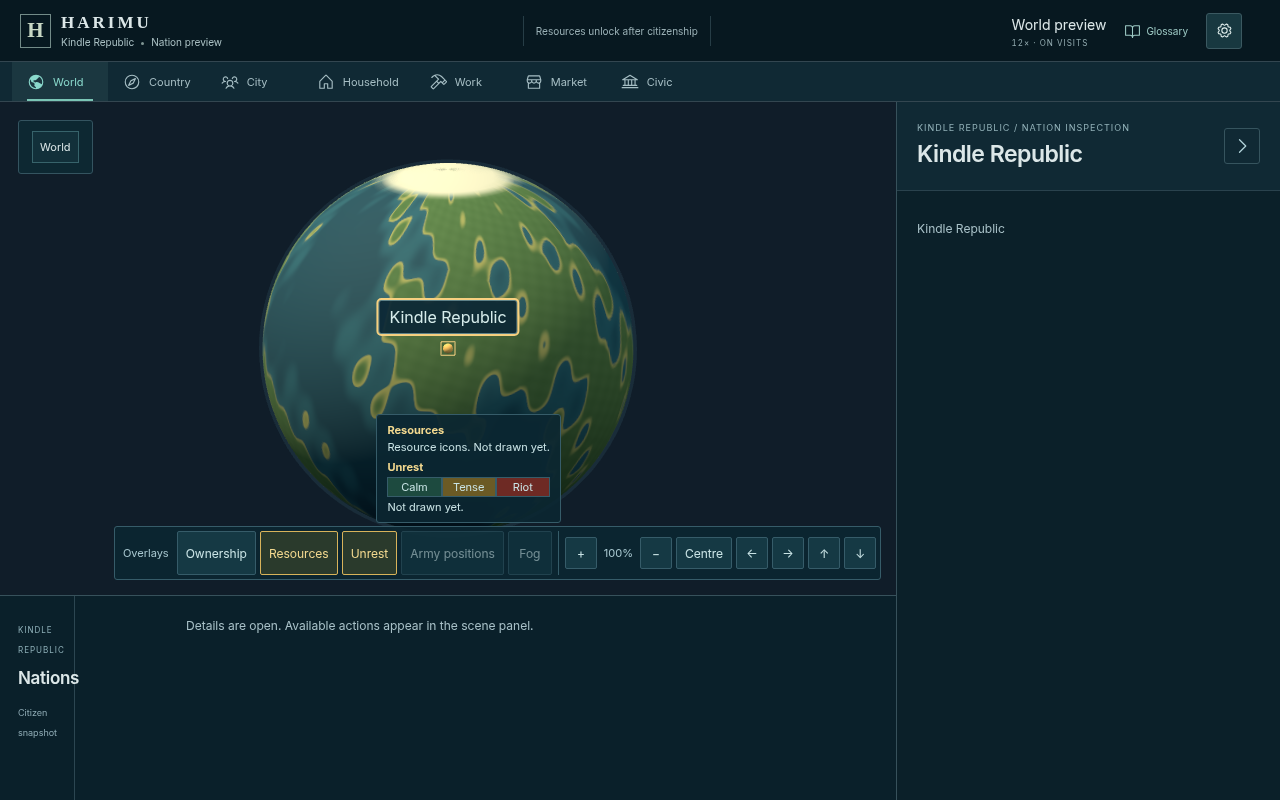
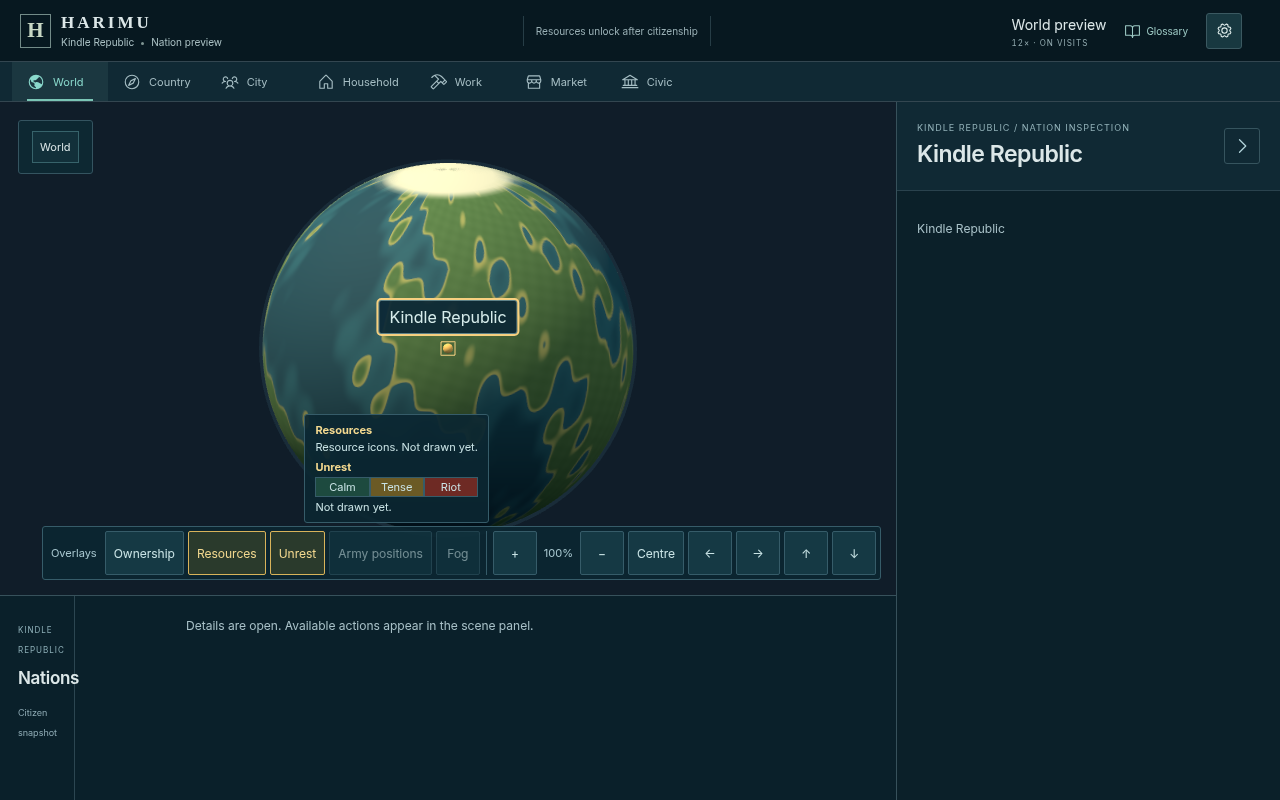
#82 slice 1 (UX): phone popover never covers the World chip (beside it, or a bottom sheet); legend is a focusable region; Escape/outside tap return focus; layout check at 1280/390/320 (Part of #82)

Changed region(s): [[0.0312, 0.5, 0.6875, 0.7188]]

diff --git a/app/game-shell.css b/app/game-shell.css
@@ -394,13 +394,13 @@ body:has(.harimu-game){overflow:auto}
 .map-overlays-panel{display:flex;flex-direction:column;align-items:flex-end}
 .map-overlays-group{display:flex;align-items:center;gap:4px;flex-wrap:wrap;padding-right:6px;margin-right:2px;border-right:1px solid #365c69}
 .map-overlays-title{font-size:calc(11px * var(--text-scale, 1));color:#a9c8d0;padding:0 4px}
-.viewport-controls .map-overlays button{min-width:44px;min-height:44px}
+.viewport-controls:has(.map-overlays) button{min-width:44px;min-height:44px}
 .viewport-controls .map-overlays button[aria-pressed="true"]{background:#2a3a2c;border-color:#d8b35a;color:#f2d88f}
 .viewport-controls .map-overlays button[aria-disabled="true"]{opacity:.55;cursor:not-allowed}
 .map-overlays-unavailable{position:relative;display:inline-flex}
 .map-overlays-unavailable [role="tooltip"]{display:none;position:absolute;bottom:calc(100% + 6px);right:0;width:max-content;max-width:220px;padding:6px 8px;background:#0b2631;border:1px solid #d8b35a;border-radius:3px;color:#e6f0f0;font-size:calc(11px * var(--text-scale, 1));z-index:5}
 .map-overlays-unavailable:hover [role="tooltip"],.map-overlays-unavailable:focus-within [role="tooltip"]{display:block}
-.map-overlays-legend{position:absolute;bottom:calc(100% + 8px);right:0;display:flex;flex-direction:column;gap:6px;width:max-content;max-width:260px;padding:8px 10px;background:#0b2631e8;border:1px solid #365c69;border-radius:3px;color:#c9e3e5;font-size:calc(11px * var(--text-scale, 1))}
+.map-overlays-legend:focus-visible{outline:2px solid #d8b35a}.map-overlays-legend{position:absolute;bottom:calc(100% + 8px);right:0;display:flex;flex-direction:column;gap:6px;width:max-content;max-width:260px;padding:8px 10px;background:#0b2631e8;border:1px solid #365c69;border-radius:3px;color:#c9e3e5;font-size:calc(11px * var(--text-scale, 1))}
 .map-overlays-legend section{display:flex;flex-direction:column;gap:3px}.map-overlays-legend strong{color:#f2d88f}
 .map-overlays-scale{display:flex;gap:0;margin:0;padding:0;list-style:none}.map-overlays-scale li{flex:1;padding:2px 6px;text-align:center;border:1px solid #365c69}
 .map-overlays-scale li:nth-child(1){background:#1d4a3f}.map-overlays-scale li:nth-child(2){background:#6b5a25}.map-overlays-scale li:nth-child(3){background:#6e2a24}
@@ -408,11 +408,13 @@ body:has(.harimu-game){overflow:auto}
 @media(max-width:390px){
   .game-stage .viewport-controls:has(.map-overlays){position:relative}.map-overlays{position:static}
   .map-overlays-trigger{display:inline-flex;align-items:center;justify-content:center}
-  .map-overlays-panel{display:none;position:absolute;bottom:calc(100% + 6px);right:8px;z-index:4;padding:6px;background:#0b2631f2;border:1px solid #365c69;border-radius:3px;width:max-content;max-width:calc(100vw - 24px);max-height:max(160px,calc(44dvh - 130px));overflow-y:auto}
-  .map-overlays[data-open="true"] .map-overlays-panel{display:flex}
+  .map-overlays-panel{display:none;position:absolute;bottom:calc(100% + 6px);right:8px;z-index:4;padding:6px;background:#0b2631f2;border:1px solid #365c69;border-radius:3px;width:max-content;max-width:calc(100vw - 24px);max-height:max(160px,calc(44dvh - 130px));overflow:hidden}
+  .map-overlays-panel[data-sheet]{width:auto}
+  .map-overlays[data-open="true"] .map-overlays-panel{display:flex;align-items:stretch}
+  .harimu-game .game-stage:has(.map-overlays-panel[data-sheet]){z-index:30}.map-overlays-panel[data-sheet]{z-index:30;box-shadow:0 -8px 24px #0009}
   .map-overlays[data-open="true"] .map-overlays-trigger{border-color:#d8b35a;color:#f2d88f}
-  .map-overlays-group{display:grid;grid-template-columns:1fr 1fr;border-right:0;padding-right:0;margin-right:0}.map-overlays-unavailable{display:grid}
+  .map-overlays-group{display:grid;grid-template-columns:repeat(auto-fit,minmax(min(100%,128px),1fr));flex:none;border-right:0;padding-right:0;margin-right:0}.map-overlays-unavailable{display:grid}
   .map-overlays-title{display:none}
-  .map-overlays-legend{position:static;order:2;max-width:none;margin-top:6px}
+  .map-overlays-legend{position:static;order:2;max-width:none;margin-top:6px;flex:1 1 auto;min-height:0;overflow-y:auto}
   .map-overlays-unavailable [role="tooltip"]{right:auto;left:0;max-width:calc(100vw - 48px)}
 }

diff --git a/app/map-overlays.tsx b/app/map-overlays.tsx
@@ -1,7 +1,7 @@
 'use client';
 // #82 slice 1: the Overlays toggle group next to the zoom cluster. Rendering on the map is a no-op in this slice.
-import { useState } from 'react';
-import { MAP_OVERLAYS, UNAVAILABLE_OVERLAYS, UNREST_SCALE, LEGEND_TEXT, toggleOverlay, overlayLabel, type OverlayId } from '../lib/map-overlays';
+import { useEffect, useLayoutEffect, useRef, useState, type CSSProperties } from 'react';
+import { MAP_OVERLAYS, UNAVAILABLE_OVERLAYS, UNREST_SCALE, LEGEND_TEXT, toggleOverlay, overlayLabel, phonePopoverPlacement, type OverlayId } from '../lib/map-overlays';
 
 /** Renders nothing unless the server sent flags.mapOverlays === true. */
 export function MapOverlaysControl({ enabled }: { enabled: boolean }) {
@@ -11,16 +11,32 @@ export function MapOverlaysControl({ enabled }: { enabled: boolean }) {
 export function MapOverlays() {
   const [active, setActive] = useState<OverlayId[]>([]); // all off at start; not persisted (UX)
   const [open, setOpen] = useState(false); // the phone popover (390px and below)
+  const [placement, setPlacement] = useState<CSSProperties>({});
   const [announcement, setAnnouncement] = useState('');
+  const rootRef = useRef<HTMLDivElement>(null), triggerRef = useRef<HTMLButtonElement>(null);
+  const close = () => { setOpen(false); triggerRef.current?.focus(); };
   const toggle = (id: OverlayId) => {
     const next = toggleOverlay(active, id);
     setActive(next);
     setAnnouncement(next.length ? `Overlays on: ${next.map(overlayLabel).join(', ')}` : 'All overlays off');
   };
-  return <div className="map-overlays" data-open={open ? 'true' : 'false'} onKeyDown={event => { if (event.key === 'Escape' && open) { event.stopPropagation(); setOpen(false); } }}>
-    <button type="button" className="map-overlays-trigger" aria-expanded={open} aria-controls="map-overlays-panel" onClick={() => setOpen(value => !value)}>Overlays</button>
-    <div id="map-overlays-panel" className="map-overlays-panel">
-      {active.length > 0 && <div className="map-overlays-legend" aria-label="Overlay legend">
+  // UX: the phone popover never overlaps the top-left "World" chip. Right-anchored beside it when it fits, else a bottom sheet below it.
+  useLayoutEffect(() => {
+    const root = rootRef.current, bar = root?.closest('.viewport-controls');
+    if (!open || !root || !bar || getComputedStyle(triggerRef.current!).display === 'none') { setPlacement({}); return; }
+    const chip = (root.closest('.harimu-game') ?? document).querySelector('.game-breadcrumbs')?.getBoundingClientRect();
+    setPlacement(phonePopoverPlacement({ width: document.documentElement.clientWidth, height: window.innerHeight }, bar.getBoundingClientRect(), chip ? { right: chip.right, bottom: chip.bottom } : null));
+  }, [open, active.length]);
+  useEffect(() => {
+    if (!open) return;
+    const outside = (event: PointerEvent) => { if (!rootRef.current?.contains(event.target as Node)) close(); };
+    document.addEventListener('pointerdown', outside);
+    return () => document.removeEventListener('pointerdown', outside);
+  }, [open]);
+  return <div ref={rootRef} className="map-overlays" data-open={open ? 'true' : 'false'} onKeyDown={event => { if (event.key === 'Escape' && open) { event.stopPropagation(); close(); } }}>
+    <button ref={triggerRef} type="button" className="map-overlays-trigger" aria-expanded={open} aria-controls="map-overlays-panel" onClick={() => setOpen(value => !value)}>Overlays</button>
+    <div id="map-overlays-panel" className="map-overlays-panel" data-sheet={placement.position === 'fixed' ? 'true' : undefined} style={placement}>
+      {active.length > 0 && <div className="map-overlays-legend" role="region" tabIndex={0} aria-label="Overlay legend">
         {active.map(id => <section key={id}>
           <strong>{overlayLabel(id)}</strong>
           {id === 'unrest' ? <ol className="map-overlays-scale">{UNREST_SCALE.map(step => <li key={step}>{step}</li>)}</ol> : null}

diff --git a/lib/map-overlays.ts b/lib/map-overlays.ts
@@ -28,3 +28,13 @@ export function toggleOverlay(active: readonly OverlayId[], id: OverlayId): Over
 }
 
 export function overlayLabel(id: OverlayId): string { return MAP_OVERLAYS.find(o => o.id === id)?.label ?? id; }
+
+export const POPOVER_GAP = 8, POPOVER_MIN_WIDTH = 260;
+type Box = { right: number };
+/** Phone popover placement. Beside the chip, right-anchored to the camera bar, when at least POPOVER_MIN_WIDTH fits right of it;
+ *  otherwise a bottom sheet fixed to the bottom of the screen whose top stays below the chip. Either way it never overlaps the chip. */
+export function phonePopoverPlacement(viewport: { width: number; height: number }, bar: Box, chip: { right: number; bottom: number } | null) {
+  const besideWidth = viewport.width - (chip ? chip.right : 0) - 2 * POPOVER_GAP;
+  if (!chip || besideWidth >= POPOVER_MIN_WIDTH) return { right: Math.max(0, bar.right - viewport.width) + POPOVER_GAP, maxWidth: besideWidth };
+  return { position: 'fixed' as const, left: POPOVER_GAP, right: POPOVER_GAP, bottom: POPOVER_GAP, maxWidth: 'none', maxHeight: Math.max(0, viewport.height - Math.max(0, chip.bottom) - 2 * POPOVER_GAP) };
+}
